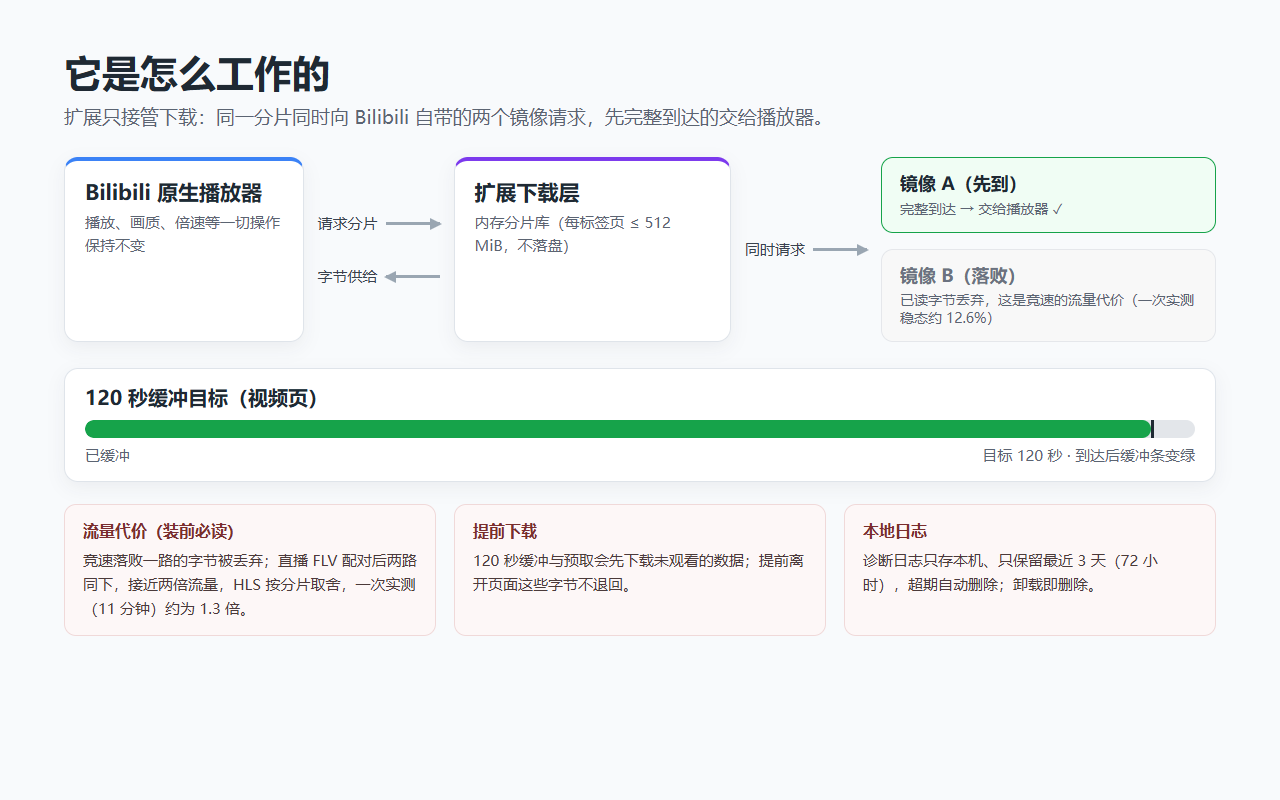
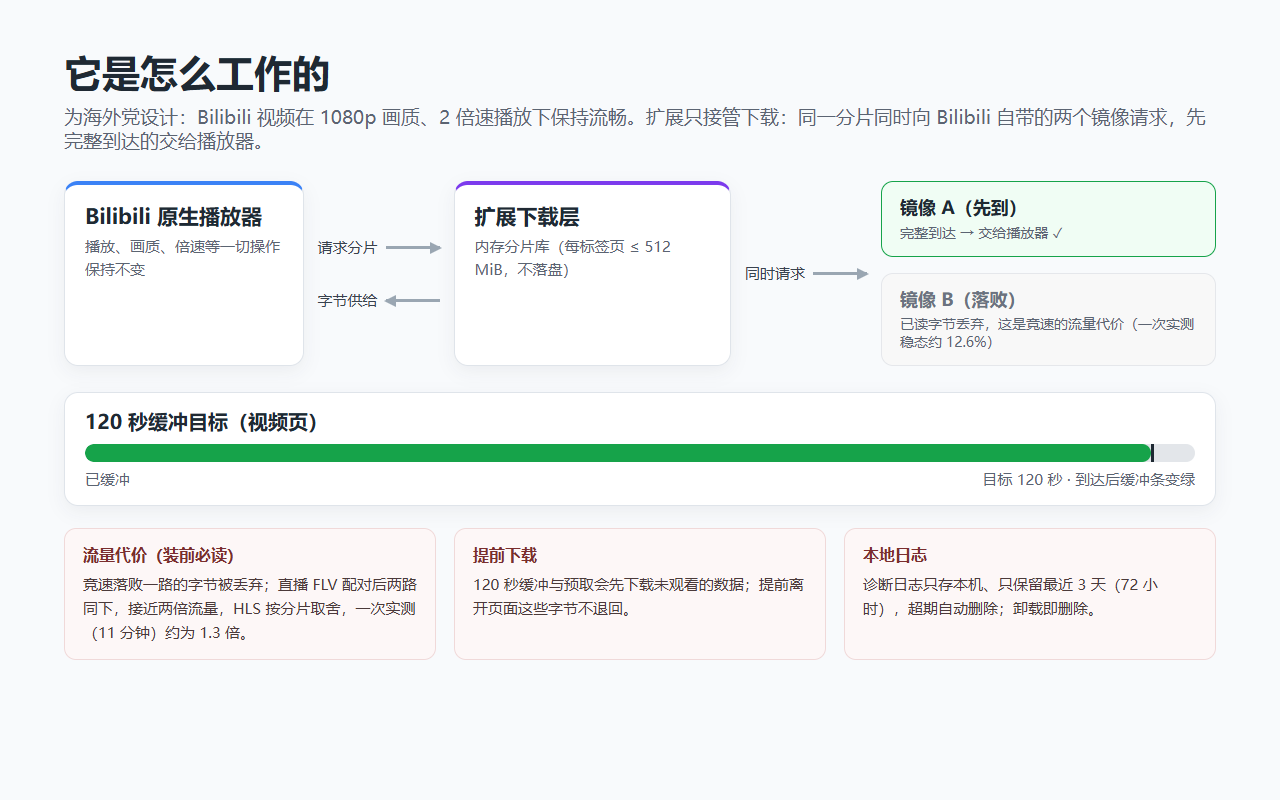
Recapture the store images on the current build with the new headlines
Why: the committed images came from an older build and made neither the
overseas-audience statement nor the 1080p 2x speed claim; the user confirmed
the current build works and asked for the store images to be recaptured now.
Video BV1zpaL6sEWj (cold, ~800 plays, pre-verified failure-free on both
mirrors for the whole buffer window), live room 1907449398 racing on HLS;
both popups show all-healthy line cards; provenance rewritten without dates.

diff --git a/store/images/src/screenshot-video.html b/store/images/src/screenshot-video.html
@@ -40,7 +40,7 @@
     <p>同一份内容同时向 Bilibili 自带的两个镜像地址下载，先到先用；另向原生播放器申请 120 秒缓冲。</p>
     <span class="pill">弹窗为真实运行截图</span>
   </div>
-  <div class="popup"><img src="../popup-video.png" alt="扩展弹窗：缓冲 122 秒 / 目标 120 秒，两条 CDN 线路正常"></div>
+  <div class="popup"><img src="../popup-video.png" alt="扩展弹窗：缓冲 121 秒 / 目标 120 秒，两条 CDN 线路正常"></div>
   <div class="credit">视频页 · 播放器缓冲条与下载线路为扩展实测数据</div>
 </body>
 </html>

diff --git a/store/images/README.md b/store/images/README.md
@@ -34,25 +34,8 @@
 
 ## 已提交图片的捕获来源
 
-- commit `ecc50bf4dc20c18080b38ef7f0577926fb86397e`（工作区于 Windows scratch 按此提交内容运行，
-  scratch 内无 git，`report.json` 的 `commitSha` 如实记为 null 并注明原因），buildId
-  `src-fdef7eb2eb34e1b5a76ecadf`（与 `report.json` 的 `provenance` 一致，随捕获自动写入）；
-  Chrome 154.0.8037.57（系统 Chrome，Windows），`--headed` 可见窗口模式，临时专用 profile，未登录，
-  `--force-device-scale-factor=2`，浏览器窗口顶到屏幕上沿（`--window-position=0,0`）。
-- 视频：BV1esa36qEbN（播放量 < 10 的冷门视频），缓冲 124 秒 / 目标 120 秒已生效，两条线路卡均正常且带连接时间；
-  直播：房间 1746709913（按 `BILIBILI_STORE_LIVE_URL` 覆盖；默认的赛事房 6 仍是特殊直播形态、顶层文档等不到
-  video 元素），播放器走 FLV（gotcha07 与 gotcha07b 两路竞速，`report.json` 的 `liveFormat` 为 `FLV`），
-  弹窗显示「正在按两条线路竞速下载」。
-- 本次有三次废跑，一次与房间布局有关、两次与会话降级有关，如实记录：默认房 6 顶层等不到播放器超时；
-  普通房 27632810 整场 300 秒停在「单路接管（无可用备用线路）」；1746709913 的第一个捕获会话同样整场停在
-  单路接管。随后在 1746709913 单独拉扩展日志核对：前缀比对两轮均通过（`mismatch:false`）、两次 `hit/live_stream`、
-  两腿 `fetched`/`lost_race` 交替，即竞速本身健康，降级与否随会话首次前缀比对的结果而定（前一日同房间
-  场场竞速）；紧接着的下一个捕获会话即竞速，上图这一组取自该会话。六次捕获里没有任何一次为「等到竞速」
-  改动扩展行为，废跑的标准与第五次相同（接管行必须是竞速，线路卡健康词不得带红色）。
-- 捕获即验证：弹窗读数（双开关、缓冲条、120 秒申请状态、线路健康词与连接时间、直播接管行）来自真实运行，
-  深色模式经 `prefers-color-scheme` 模拟逐像素核对（健康词整词着色，无半色缺陷；两张弹窗四张线路卡健康词
-  均为「正常」，无红色健康像素）。弹窗特写链接区墨迹与第五次逐项一致（明 1612 / 暗 1623，两张弹窗同数），
-  视口与文档尺寸连同链接坐标写入 `report.json` 供复核。
-- 弹窗完整性的屏幕钳制教训（2× 缩放下的 435 CSS px 文档高、`--headed` 必要性、窗口 y=0）见第五次的记录，
-  本次脚本自检同名通过，不重复展开。三张确定性渲染图（机制示意图、小宣传图、Marquee）与上一组逐字节一致，
-  四张随运行取数的图（两张弹窗特写与两张 1280x800 截图）为本组新图。
+- commit `6410ad6367e92159f6002f5786256ecc21ae0e86`（工作区于 Windows scratch 按此提交内容运行，scratch 内无 git，`report.json` 的 `commitSha` 由环境变量如实记入并注明原因），buildId `src-320b6f176a4377a3036f5ba7`（与 `report.json` 的 `provenance` 一致，随捕获自动写入）；Chrome 154.0.8037.57（系统 Chrome，Windows），`--headed` 可见窗口模式，临时专用 profile，未登录，`--force-device-scale-factor=2`，浏览器窗口顶到屏幕上沿（`--window-position=0,0`）。
+- 视频：BV1zpaL6sEWj（播放量约 800 的冷门视频，时长 11 分 35 秒），缓冲 121 秒 / 目标 120 秒已生效，两条线路卡均「正常」且带连接时间（hz-mirrorakam 通常 149 毫秒、sz-mirrorcosov 通常 63 毫秒）；直播：房间 1907449398（按 `BILIBILI_STORE_LIVE_URL` 覆盖；房间从 live.bilibili.com/all 的房间链接里逐个探测顶层 video 选出，默认的赛事房 6 与上一组用的 1746709913 现在都把播放器装进独立 iframe，顶层文档等不到 video 元素），播放器走 HLS（`report.json` 的 `liveFormat` 为 `HLS`），弹窗显示「正在按两条线路竞速下载」，两条线路（ov-gotcha207 与 ov-gotcha207b）均「正常」。
+- 本次有三次废跑，如实记录：BV1esa36qEbN 两次、BV14Pas6bEu2 一次，三次捕获的视频弹窗都有线路卡健康词带红（「有错误」或「有停滞」），未采纳。归因（无头诊断会话读扩展日志）：本轮时段冷门视频在视频镜像上的开头几个分片普遍出错（空响应、停滞、HTTP 错误），对象被读取一次后开头分片恢复，但每个对象另有个固定的镜像缺陷区间（BV1cbaG69EB9 在第 3 分片、BV1ttaE6UEjF 在第 2 分片、BV14Pas6bEu2 在第 53 分片附近，同对象跨会话逐次复现），健康词如实反映，对同一对象重拍无效。因此视频改为先探测后捕获：候选连拍两个会话（预热、正式），正式会话缓冲到达目标的窗口内两条线路零失败才进入捕获；BV1zpaL6sEWj 两个会话均零失败，正式捕获一次通过。三次废跑与全部探测都没有为「等到竞速或健康词变绿」改动扩展行为。
+- 捕获即验证：弹窗读数（双开关、缓冲条、120 秒申请状态、线路健康词与连接时间、直播接管行）来自真实运行，深色模式经 `prefers-color-scheme` 模拟逐像素核对（健康词整词着色，无半色缺陷；两张弹窗四张线路卡健康词均为「正常」，弹窗特写与 1280x800 截图内的弹窗区域按像素扫描均无红色健康像素）。弹窗特写链接区墨迹与上一组逐项一致（明 1612 / 暗 1623，两张弹窗同数），视口与文档尺寸连同链接坐标写入 `report.json` 供复核。
+- 三张确定性渲染图（机制示意图、小宣传图、Marquee）因标题改为海外受众与 1080p 2 倍速声明而重新渲染；四张随运行取数的图（两张弹窗特写与两张 1280x800 截图）为本组新图。弹窗完整性的屏幕钳制教训（2× 缩放下的 435 CSS px 文档高、`--headed` 必要性、窗口 y=0）见脚本内注释与自检，本轮同名通过。
